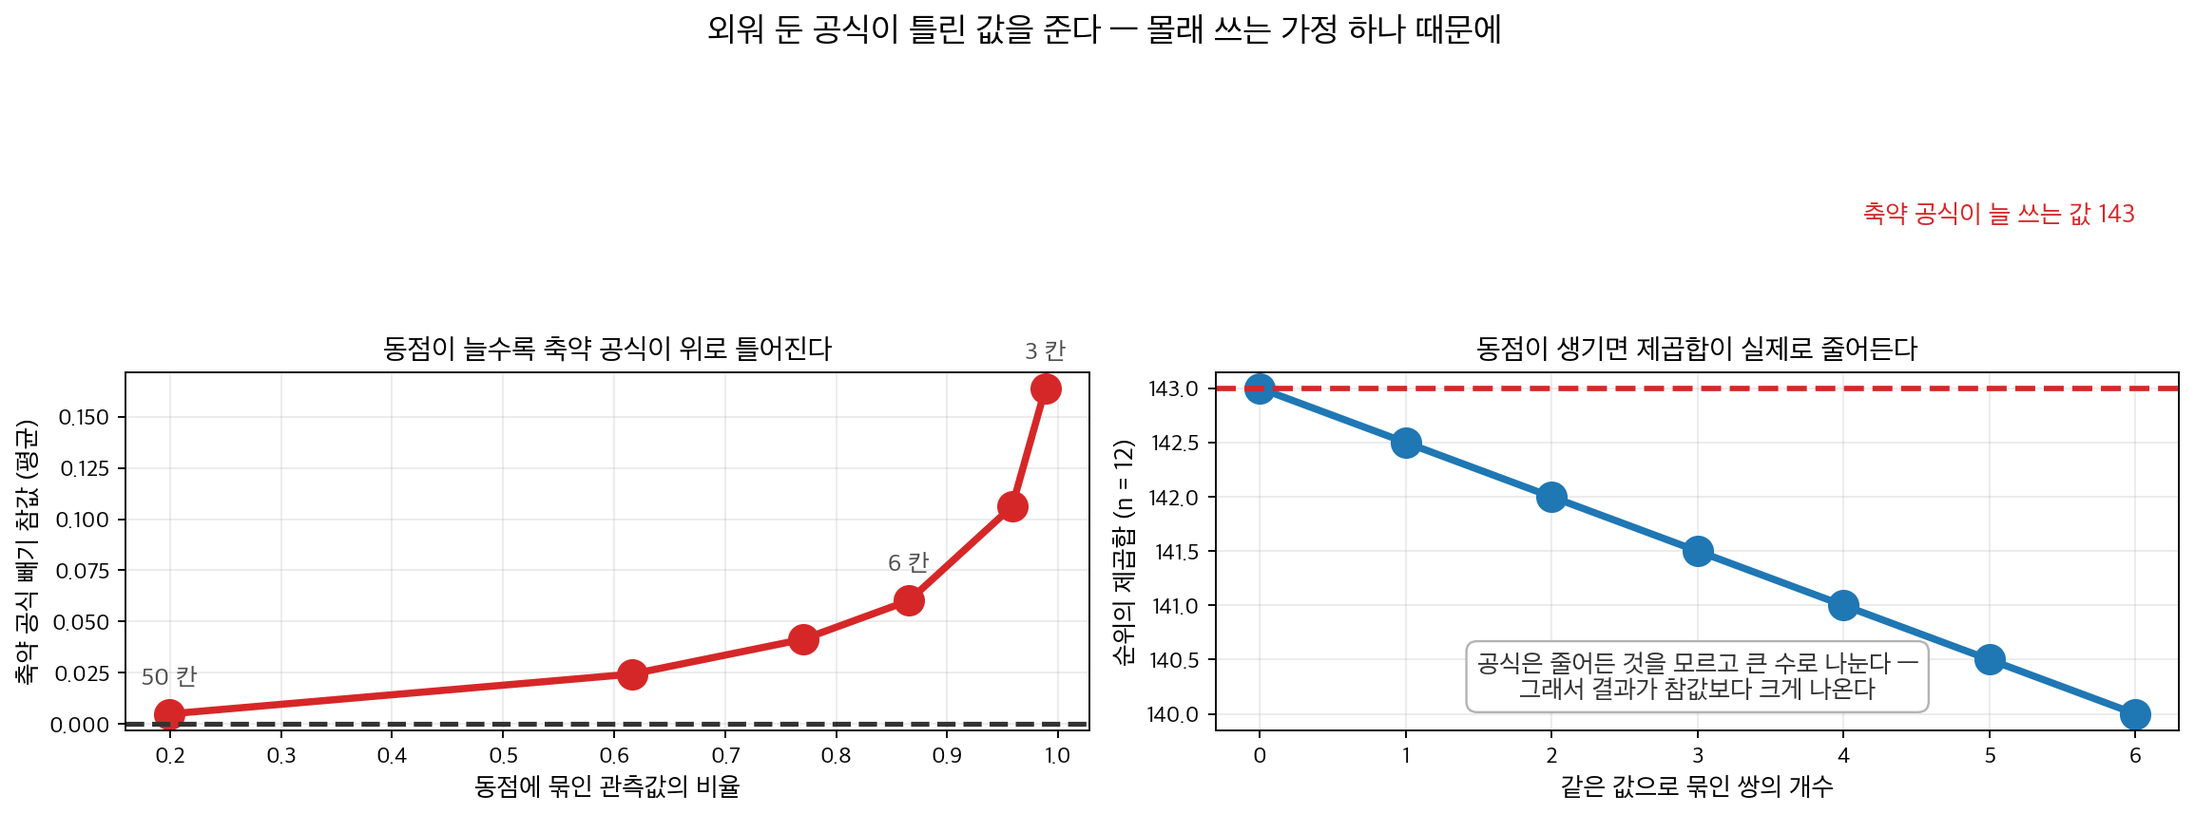
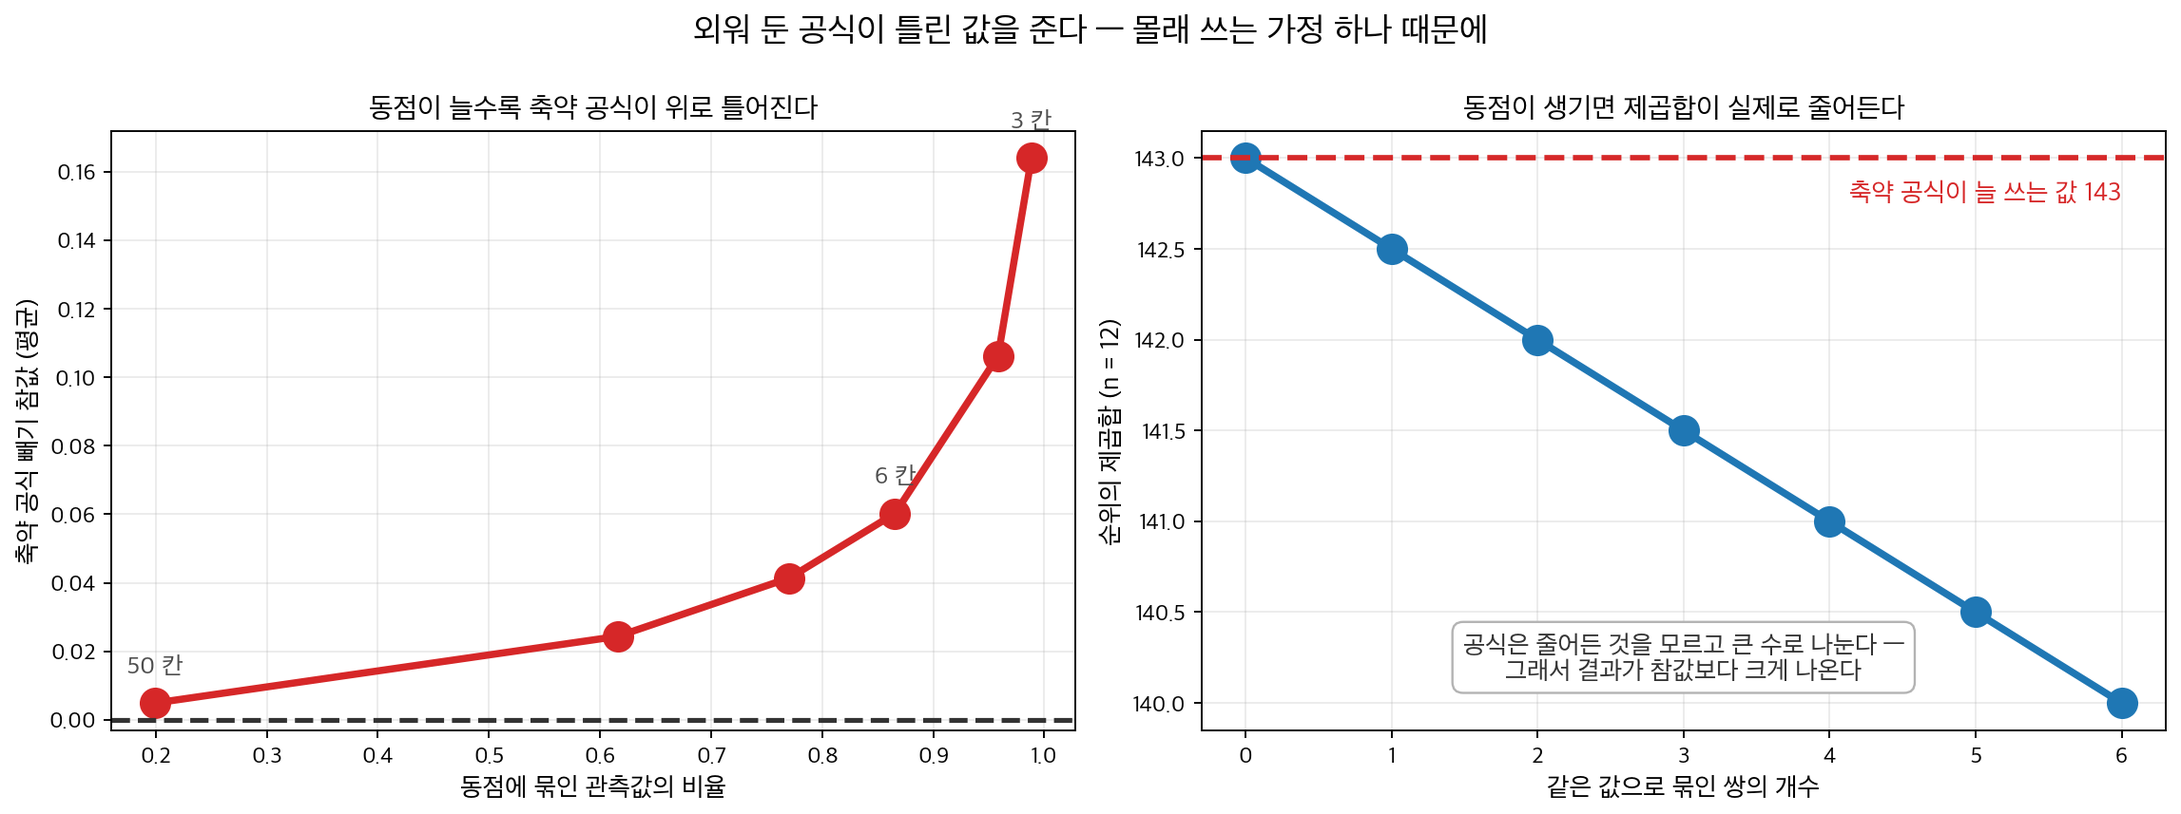
fix(ch16): 보고만 해 두었던 항목을 마무리한다
앞 편집 패스가 고치지 않고 남긴 항목을 하나씩 판정해 끝냈다. 이미 닫힌 것과 보고가
틀린 것은 건드리지 않았고, 펜스를 고친 쪽은 실제로 돌린 출력을 붙여 verify_outputs 로
맞췄다. 그림을 다시 그린 것은 스크립트와 함께 담았다. 바깥 사실은 확인한 출처로만 고쳤다.

diff --git a/scripts/make_ch16_leadbox_figures_c.py b/scripts/make_ch16_leadbox_figures_c.py
@@ -497,8 +497,8 @@ for m in tiecounts:
     shrunk.append(((r - r.mean()) ** 2).sum())
 ax2.plot(tiecounts, shrunk, "o-", color="tab:blue", lw=3.2, ms=13)
 ax2.axhline(base, color="tab:red", lw=2.4, ls="--")
-ax2.text(tiecounts[-1], base + 1.5,
-         f"축약 공식이 늘 쓰는 값 {base:.0f}", ha="right", va="bottom",
+ax2.text(tiecounts[-1], base - 0.12,
+         f"축약 공식이 늘 쓰는 값 {base:.0f}", ha="right", va="top",
          fontsize=11.5, color="tab:red", fontweight="bold")
 ax2.set_xlabel("같은 값으로 묶인 쌍의 개수", fontsize=11.5)
 ax2.set_ylabel(f"순위의 제곱합 (n = {N20})", fontsize=11.5)

diff --git a/docs/ch16/one_sample_nonparametric/wilcoxon_signed_rank.md b/docs/ch16/one_sample_nonparametric/wilcoxon_signed_rank.md
@@ -149,7 +149,7 @@ $0$ 을 버리고 남은 개수(아래에서는 $n'$ 이라 적는다)가 작으
 
 관측값 $W^+ = 18$ 이상이 나오는 배정은 $64$가지 중 $5$가지여서 단측 $p$ 값이 $5/64 = 0.0781$이다. SciPy의 `stats.wilcoxon(D, alternative="greater")`가 돌려주는 값과 정확히 같다. 표도 $t$ 분포표도 필요 없고, 근사 오차도 없다.
 
-이 열거가 가능한 범위가 곧 정확검정을 쓸 수 있는 범위이다. $n' = 6$이면 $64$가지, $n' = 20$이면 약 $100$만 가지로 여전히 즉시 계산되지만 $n' = 50$이면 $10^{15}$가지가 되어 동적계획법이나 정규근사로 넘어가야 한다. SciPy가 $n' \le 25$에서 기본적으로 `method="exact"`를 쓰는 것이 이 경계선이다.
+이 열거가 가능한 범위가 곧 정확검정을 쓸 수 있는 범위이다. $n' = 6$이면 $64$가지, $n' = 20$이면 약 $100$만 가지로 여전히 즉시 계산되지만 $n' = 50$이면 $10^{15}$가지가 되어 동적계획법이나 정규근사로 넘어가야 한다. SciPy 는 열거 대신 점화식으로 분포를 세므로 경계가 조금 더 넓다 — 이 책이 쓰는 판본(1.13)은 $n' \le 50$ 이고 0 이 없으면 기본으로 `method="exact"`를 쓴다(옛 판본에서는 경계가 더 작았다).
 
 ### 정규근사 — n 이 20 이상이면 쓴다
 
@@ -183,7 +183,7 @@ $$
 
 $p \le \alpha$ 이면 $H_0$ 을 기각한다.
 
-**그 확률을 어떻게 구하느냐가 버리고 남은 개수 $n'$ 에 달렸다.** $n'$ 이 작으면 $2^{n'}$ 가지 부호 배정을 그대로 세어 **정확** $p$ 값을 얻는다 — 앞 절의 $D = (4,\,-1,\,7,\,3,\,-2,\,5)$ 에서 $W^+ = 18$ 이상인 배정이 $64$ 가지 가운데 다섯이어서 단측 $p$ 가 $5/64 = 0.0781$ 이었다. $n'$ 이 커지면 열거가 버거워지므로 앞 절의 $Z$ 로 바꾼다. `scipy` 는 $n' \le 25$ 까지 정확검정을 기본으로 삼는다.
+**그 확률을 어떻게 구하느냐가 버리고 남은 개수 $n'$ 에 달렸다.** $n'$ 이 작으면 $2^{n'}$ 가지 부호 배정을 그대로 세어 **정확** $p$ 값을 얻는다 — 앞 절의 $D = (4,\,-1,\,7,\,3,\,-2,\,5)$ 에서 $W^+ = 18$ 이상인 배정이 $64$ 가지 가운데 다섯이어서 단측 $p$ 가 $5/64 = 0.0781$ 이었다. $n'$ 이 커지면 열거가 버거워지므로 앞 절의 $Z$ 로 바꾼다. `scipy` 는 0 이 없으면 $n' \le 50$ 까지 정확검정을 기본으로 삼는다.
 
 ---
 
@@ -263,7 +263,7 @@ $p \le \alpha$ 이면 $H_0$ 을 기각한다.
         0.12627892855469777
         ```
 
-        이 보기에서는 세 값 모두 $\alpha = 0.05$에서 같은 결론을 주지만, 작은 표본에서는 근사가 $p$ 값을 정확값과 눈에 띄게 다르게 잡을 수 있다는 점을 기억해야 한다(이 보기에서는 작게 잡았다). $n \le 25$에서는 SciPy가 기본적으로 정확검정을 쓰며, 그 편이 옳다.
+        이 보기에서는 세 값 모두 $\alpha = 0.05$에서 같은 결론을 주지만, 작은 표본에서는 근사가 $p$ 값을 정확값과 눈에 띄게 다르게 잡을 수 있다는 점을 기억해야 한다(이 보기에서는 작게 잡았다). $n \le 50$이고 0 이 없으면 SciPy가 기본적으로 정확검정을 쓰며, 그 편이 옳다.
 
 ### 크기 정보가 결론을 뒤집는다
 
@@ -1011,7 +1011,7 @@ $\mathcal{N}(0.4,\, 1)$에서 $\alpha = 0.05$ 양측, 반복 20,000회로 (i) $n
 
     **정규자료.** 같은 $n = 40$에서 부호순위검정이 $0.6784$, $t$ 검정이 $0.6936$으로 $0.0152$ 뒤진다. 표본을 둘 더 모아 $n = 42$로 만들면 $0.6938$이 되어 $t$ 검정의 $0.6936$과 사실상 같아진다(차이 $0.0002$, 반복 20,000회의 표준오차는 $\sqrt{0.69 \times 0.31/20000} \approx 0.0033$이므로 구별할 수 없다). ARE $0.955$가 뜻하는 "표본 $4.7\%$"가 $n = 40$에서 이미 눈에 보이는 정확도로 맞는다. ARE는 $n \to \infty$, $\delta \to 0$의 극한값인데도 중간 크기 표본에서 잘 맞는다는 점이 이 수를 실용적으로 만든다.
 
-    **$t_3$ 자료.** 순서가 뒤집힌다. 같은 $n = 40$에서 부호순위검정이 $0.4943$, $t$ 검정이 $0.3704$로 **부호순위검정이 $0.124$ 앞선다.** $t$ 검정이 잃는 것을 표본 수로 환산하면 $4.7\%$가 아니라 $30\%$가 넘는다. 두꺼운 꼬리가 표본표준편차를 부풀려 $t$ 통계량의 분모를 키우는 반면, 순위는 이상치(outlier)의 **크기**가 아니라 **차례**만 보므로 영향을 받지 않는다.
+    **$t_3$ 자료.** 순서가 뒤집힌다. 같은 $n = 40$에서 부호순위검정이 $0.4943$, $t$ 검정이 $0.3704$로 **부호순위검정이 $0.124$ 앞선다.** $t$ 검정이 잃는 것을 표본 수로 환산하면 $4.7\%$와는 방향도 크기도 다르다 — $t_3$ 에서 부호순위검정의 ARE 는 $12\sigma^2\bigl(\int f^2\bigr)^2 = 1.90$ 이므로, 점근적으로는 $t$ 검정이 같은 검정력을 내는 데 표본이 $90\%$ 더 든다. 두꺼운 꼬리가 표본표준편차를 부풀려 $t$ 통계량의 분모를 키우는 반면, 순위는 이상치(outlier)의 **크기**가 아니라 **차례**만 보므로 영향을 받지 않는다.
 
     그래서 $0.955$는 "비모수 검정이 약간 약하다"가 아니라 **"$t$ 검정이 최적인 정규분포에서조차 약간만 약하다"**로 읽어야 한다. ARE는 분포마다 다른 값이고, $0.955$는 $t$ 검정에 유리한 경우에서 잰 값이다. 꼬리가 두꺼워지면 같은 비가 $1$을 넘고 한없이 커질 수도 있다. 포기하는 것은 정규분포에서 $4.7\%$의 표본이고 어떤 분포에서도 크게 늘지 않지만(ARE의 하한이 $108/125 = 0.864$이다), 얻는 것(두꺼운 꼬리에서의 검정력)은 상한이 없다.
 
@@ -1604,7 +1604,7 @@ $$
     p_c = stats.wilcoxon(dz, alternative="two-sided", method="approx",
                          correction=False, zero_method="wilcox").pvalue
     print(f"\n0 을 떼고 넣은 method='exact'   : {p_a:.6f}")
-    print(f"0 을 그대로 둔 method='exact'   : {p_b:.6f}   <- 말없이 정규근사로 갈아탄다")
+    print(f"0 을 그대로 둔 method='exact'   : {p_b:.6f}   <- 경고를 내고 정규근사로 갈아탄다")
     print(f"method='approx' (동점 보정 분산): {p_c:.6f}")
     ```
 
@@ -1618,7 +1618,7 @@ $$
     정확 양측  p = 2*10/4096 = 0.004883
 
     0 을 떼고 넣은 method='exact'   : 0.004883
-    0 을 그대로 둔 method='exact'   : 0.007579   <- 말없이 정규근사로 갈아탄다
+    0 을 그대로 둔 method='exact'   : 0.007579   <- 경고를 내고 정규근사로 갈아탄다
     method='approx' (동점 보정 분산): 0.007579
     ```
 

diff --git a/docs/ch16/correlation/spearman.md b/docs/ch16/correlation/spearman.md
@@ -14,7 +14,7 @@
 
 <figure markdown>
   ![두 칸짜리 그림. 왼쪽은 동점에 묶인 비율이 늘수록 축약 공식이 참값보다 위로 틀어지는 곡선으로 0.005 에서 0.164 까지 간다. 오른쪽은 같은 값으로 묶인 쌍이 늘수록 순위의 제곱합이 143 에서 줄어드는 것을 보이고, 축약 공식이 늘 쓰는 값을 가로선으로 표시한다](./img/the_shortcut_assumes_fortytwo.png){ width="900" }
-  <figcaption markdown>**오른쪽.** 축약 공식이 몰래 쓰는 것이 이것이다 — 순위의 제곱합이 늘 같은 값이라는 사실. 동점이 생기면 중간순위가 서로 가까워져 제곱합이 **실제로 줄어드는데** 공식은 여전히 원래 값으로 나눈다. **왼쪽.** 그래서 결과가 참값보다 **크게** 나오고, 그 오차가 동점과 함께 커진다. 동점에 묶인 비율이 $0.2$ 일 때 $+0.005$ 이던 것이 $0.99$ 에서 $+0.164$ 가 된다. 들머리의 $0.393$ 대 $0.374$ 가 그 곡선의 왼쪽 끝 언저리다. 그런 자료에서는 중간순위에 피어슨 공식을 그대로 적용하는 것이 맞다. $n = 12$, 반복 자리마다 $3{,}000$ 회.</figcaption>
+  <figcaption markdown>**오른쪽.** 축약 공식이 몰래 쓰는 것이 이것이다 — 순위의 제곱합이 늘 같은 값이라는 사실. 동점이 생기면 중간순위가 서로 가까워져 제곱합이 **실제로 줄어드는데** 공식은 여전히 원래 값으로 나눈다. **왼쪽.** 그래서 결과가 참값보다 **크게** 나오고, 그 오차가 동점과 함께 커진다. 동점에 묶인 비율이 $0.2$ 일 때 $+0.005$ 이던 것이 $0.99$ 에서 $+0.164$ 가 된다. 들머리의 자료는 관측값 $16$ 개 가운데 $10$ 개(비율 $0.625$)가 동점에 묶여 있고 차이가 $0.393 - 0.374 = +0.019$ 이므로, $n$ 은 $8$ 로 다르지만 그 곡선의 둘째 점($0.62$ 에서 $+0.024$) 언저리에 놓인다. 그런 자료에서는 중간순위에 피어슨 공식을 그대로 적용하는 것이 맞다. $n = 12$, 반복 자리마다 $3{,}000$ 회.</figcaption>
 </figure>
 </div>
 
@@ -1124,7 +1124,7 @@ $$
 
     **정확검정을 쓴다.** 두 검정 모두 명목 $0.05$ 를 정확히 맞추지 못하지만, 틀리는 방향이 다르다. 정확검정은 수준을 **넘지 않는다**는 보장을 지키면서 검정력을 조금 잃고, $t$ 검정은 보장을 깬다. 가설검정의 설계가 "제1종 오류율을 $\alpha$ 이하로 묶고 그 안에서 검정력을 최대화한다" 는 것이므로 수준을 넘기는 쪽은 선택지가 아니다. $n \le 9$ 에서 $n!$ 열거는 몇 초면 끝난다.
 
-    **"정확히 $0.05$" 가 불가능하다는 사실.** $r_s$ 의 귀무분포가 유한한 격자 위의 이산분포이므로 꼬리확률도 $1/n!$ 의 배수뿐이고, $0.05$ 가 그 안에 들어 있을 이유가 없다. 이것은 근사의 실패가 아니라 **이산성의 본질**이다(9 장의 이항검정에서도 같은 일이 일어난다). 그래서 소표본 비모수 검정에서는 "$\alpha = 0.05$ 검정" 이라는 말보다 **달성된 수준을 함께 적는 것**이 정직하다 — 예컨대 "$n = 8$, 정확검정, 달성 수준 $0.0458$".
+    **"정확히 $0.05$" 가 불가능하다는 사실.** $r_s$ 의 귀무분포가 유한한 격자 위의 이산분포이므로 꼬리확률도 $1/n!$ 의 배수뿐이고, $0.05$ 가 그 안에 들어 있을 이유가 없다. 이것은 근사의 실패가 아니라 **이산성의 본질**이다(9.1절 [검정통계량과 p 값](../../ch09/foundations/pvalues.md) 연습문제 16 의 정확 이항검정에서도 같은 일이 일어난다). 그래서 소표본 비모수 검정에서는 "$\alpha = 0.05$ 검정" 이라는 말보다 **달성된 수준을 함께 적는 것**이 정직하다 — 예컨대 "$n = 8$, 정확검정, 달성 수준 $0.0458$".
 
 <div class="drillbox" markdown>
 

diff --git a/docs/ch16/multi_group_nonparametric/friedman.md b/docs/ch16/multi_group_nonparametric/friedman.md
@@ -13,8 +13,8 @@
 그렇다면 블록 안에서만 순위를 매겨 지우는 것은 정확히 무엇이고, 그 대가로 버리는 것은 무엇인가. 이 쪽이 가정 넷을 적고 절차를 세 단계로 끊은 뒤, 귀무분포가 블록 안 순위의 순열에서 그대로 나오는 것을 보이고 「어느 약이 다른가」를 묻는 사후비교(post hoc comparison)로 넘긴다.
 
 <figure markdown>
-  ![두 칸짜리 그림. 왼쪽은 블록 5 개 처리 4 가지에서 통계량이 가질 수 있는 45 개 값을 막대로 찍고 카이제곱 곡선을 겹친 것으로, 최댓값이 15 에서 막혀 있고 관측값 13.6 이 그 가까이에 있다. 오른쪽은 카이제곱 표가 읽어 주는 0.003570 과 순열을 다 세어 얻은 0.000139 를 막대로 맞댄 것이다](./img/only_forty_five_values.png){ width="900" }
-  <figcaption markdown>**왼쪽.** 블록이 다섯이고 처리가 넷이면 블록 안 순위의 배치가 $(4!)^5$ 가지뿐이고, 통계량이 가질 수 있는 값은 **$45$ 개**다. 게다가 최댓값이 $15$ 에서 막혀 있다 — 모든 블록이 완전히 같은 순위를 줄 때의 값이다. 관측값 $13.6$ 은 가질 수 있는 값 가운데 셋째로 큰 자리다. 매끄러운 카이제곱 곡선은 그 성긴 격자를 전혀 모른 채 꼬리를 그린다. **오른쪽.** 그래서 표가 읽어 주는 $0.003570$ 이 정확값 $0.000139$ 의 **$26$ 배**가 된다 — 기각을 덜 하는 쪽이다. 블록이 늘면 격자가 촘촘해져 이 간격도 줄어든다.</figcaption>
+  ![두 칸짜리 그림. 왼쪽은 블록 5 개 처리 4 가지에서 통계량이 가질 수 있는 45 개 값을 막대로 찍고 카이제곱 곡선을 겹친 것으로, 최댓값이 15 에서 막혀 있고 관측값 13.56 이 그 가까이에 있다. 오른쪽은 카이제곱 표가 읽어 주는 0.003570 과 순열을 다 세어 얻은 0.000139 를 막대로 맞댄 것이다](./img/only_forty_five_values.png){ width="900" }
+  <figcaption markdown>**왼쪽.** 블록이 다섯이고 처리가 넷이면 블록 안 순위의 배치가 $(4!)^5$ 가지뿐이고, 통계량이 가질 수 있는 값은 **$45$ 개**다. 게다가 최댓값이 $15$ 에서 막혀 있다 — 모든 블록이 완전히 같은 순위를 줄 때의 값이다. 관측값 $13.56$ 은 가질 수 있는 값 가운데 셋째로 큰 자리다. 매끄러운 카이제곱 곡선은 그 성긴 격자를 전혀 모른 채 꼬리를 그린다. **오른쪽.** 그래서 표가 읽어 주는 $0.003570$ 이 정확값 $0.000139$ 의 **$26$ 배**가 된다 — 기각을 덜 하는 쪽이다. 블록이 늘면 격자가 촘촘해져 이 간격도 줄어든다.</figcaption>
 </figure>
 </div>
 

diff --git a/docs/ch16/paired_sample_nonparametric/paired_wilcoxon.md b/docs/ch16/paired_sample_nonparametric/paired_wilcoxon.md
@@ -747,7 +747,7 @@ $n = 12$에서 윌콕슨 부호순위검정의 정확 귀무분포를 직접 열
 
     Ds = np.sort(D)
     m = max(c for c in range(n) if 2 * stats.binom.cdf(c, n, 0.5) <= 0.05)
-    print(m, Ds[m + 1], Ds[n - m - 1])                # 2 5 11
+    print(m, Ds[m], Ds[n - m - 1])                    # 2 3 11  (D_(3), D_(10))
     print(stats.ttest_1samp(D, 0).confidence_interval())
     ```
 
@@ -755,19 +755,19 @@ $n = 12$에서 윌콕슨 부호순위검정의 정확 귀무분포를 직접 열
 
     ```
     13 78 1.5 10.0
-    2 5 11
+    2 3 11
     ConfidenceInterval(low=2.1717302734032677, high=9.994936393263398)
     ```
 
     | 방법 | 95% 신뢰구간 | 폭 | 실제 포함확률 |
     |:---|:---:|---:|---:|
-    | 대응 부호검정 | $(5, \; 11)$ | $6.0$ | $0.961$ |
+    | 대응 부호검정 | $(3, \; 11)$ | $8.0$ | $0.961$ |
     | 대응 윌콕슨 | $(1.5, \; 10.0)$ | $8.5$ | $0.958$ |
     | 대응 $t$ | $(2.17, \; 9.99)$ | $7.8$ | $0.950$ |
 
     세 구간 모두 0을 포함하지 않으므로 세 검정이 모두 기각한 것과 일관된다.
 
-    부호검정 구간이 가장 **좁다**는 것이 뜻밖으로 보인다. 검정력이 가장 낮은 검정이 왜 가장 좁은 구간을 주는가? 이는 두 구간이 다른 방식으로 만들어지기 때문이다. 부호검정 구간은 **순서통계량** $D_{(3)} = 5$와 $D_{(10)} = 11$ 사이이고, 이 자료의 차이가 대부분 $5$ 이상에 몰려 있어 우연히 좁게 나왔다. 윌콕슨 구간은 월시 평균에 기반하므로 $-8$과 $-2$가 만드는 낮은 쌍평균들까지 반영되어 아래쪽으로 늘어난다.
+    가장 좁은 것은 $t$ 구간($7.8$)이지만, 부호검정 구간($8.0$)이 윌콕슨 구간($8.5$)보다 **좁다**는 것이 뜻밖으로 보인다. 검정력이 더 낮은 검정이 왜 더 좁은 구간을 주는가? 이는 두 구간이 다른 방식으로 만들어지기 때문이다. 부호검정 구간은 **순서통계량** $D_{(3)} = 3$과 $D_{(10)} = 11$ 사이이고, 아래쪽 두 값 $-8$, $-2$ 는 끝점을 정하는 데 순서로만 들어간다. 윌콕슨 구간은 월시 평균에 기반하므로 $-8$과 $-2$가 만드는 낮은 쌍평균들까지 반영되어 아래쪽으로 늘어난다.
 
     구간의 폭은 검정력의 좋은 지표가 아니다. 표본이 하나뿐일 때 어느 구간이 좁은지는 그 표본의 우연에 크게 좌우된다. 검정력을 비교하려면 여러 표본에 걸친 평균 폭을 보아야 한다.
 

diff --git a/docs/ch16/multi_group_nonparametric/kruskal_wallis.md b/docs/ch16/multi_group_nonparametric/kruskal_wallis.md
@@ -353,7 +353,7 @@ $$
 
 크러스컬–월리스 결과가 유의하다는 것은 적어도 한 집단이 다르다는 뜻이지, 어느 쌍이 다른지는 알려 주지 않는다. 사후분석의 선택지는 다음과 같다.
 
-- **[던 검정](dunn.md)** --- 평균순위 차이에 기반한 쌍별 비교로, 다중검정에 대한 $p$ 값 보정(본페로니, 홀름, Benjamini-Hochberg)을 적용한다.
+- **[던 검정](dunn.md)** --- 평균순위 차이에 기반한 쌍별 비교로, 다중검정에 대한 $p$ 값 보정(본페로니, 홀름, 벤자미니–호크버그)을 적용한다.
 - **쌍별 만–휘트니 검정** --- $\binom{k}{2}$개의 이표본 검정을 본페로니 보정과 함께 수행한다.
 
 !!! warning "전체검정을 건너뛰지 말 것"
@@ -858,7 +858,7 @@ $k = 3$이고 $n_i = 4$인 이 보기에서 $\chi^2$ 근사가 얼마나 믿을 
 
     세 집단의 **중앙값이 모두 정확히 0**인데도 기각률이 명목수준의 두 배($n=10$)에서 12배($n=100$)까지 올라가고, $n$이 커질수록 **더 나빠진다**.
 
-    이유는 크러스컬–월리스가 검정하는 것이 "중앙값이 같다"가 아니라 "분포가 같다"이기 때문이다. 평균순위는 중앙값이 아니라 $P(X_i > X_j)$ 형태의 양에 민감하다. 오른쪽 꼬리가 긴 분포는 극단적으로 큰 값을 자주 내므로 합친 표본에서 높은 순위를 더 많이 차지한다.
+    이유는 크러스컬–월리스가 검정하는 것이 "중앙값이 같다"가 아니라 "분포가 같다"이기 때문이다. 평균순위는 중앙값이 아니라 $P(X_i > X_j)$ 형태의 양에 민감하다. 순위는 값의 크기를 보지 않으므로 「극단적으로 큰 값을 낸다」는 것 자체가 까닭은 아니다. 중앙값이 같아도 아래 절반이 0 바로 밑($-\ln 2$ 와 $0$ 사이)에 몰려 있는 $g_1$ 은 다른 집단과 짝지을 때 이기는 쪽이 더 많다 — $P(g_1 > g_2) = 0.557$, $P(g_1 > g_3) = 0.597$ 이다. 그래서 합친 표본에서 높은 순위를 더 많이 차지한다.
 
     구체적으로, 세 분포의 기대 평균순위를 계산해 보면 $g_1 > g_2 > g_3$ 순으로 갈리며, 이 차이가 표본이 커질수록 잡음에 비해 뚜렷해진다.
 

diff --git a/docs/ch16/two_sample_nonparametric/mann_whitney.md b/docs/ch16/two_sample_nonparametric/mann_whitney.md
@@ -1329,7 +1329,7 @@ $$
 
     **(d)** 분산이 다르고 표본크기가 다르면 만–휘트니 검정은 $\theta = 1/2$가 참인데도 명목 $5\%$가 실제로는 $0.8\%$(보수적)에서 $16\%$(과감)까지 흔들린다. **분산이 큰 쪽의 표본이 작을 때 과감해진다.** 까닭은 본문의 $\sigma_U^2 = n_1 n_2(N+1)/12$가 $\theta = 1/2$만으로 유도된 것이 아니라 $N$개 관측값 전체의 **교환가능성**(두 분포가 완전히 동일함)에서 유도된 것이기 때문이다. 순위를 쓴다고 해서 가정이 사라지는 것은 아니다.
 
-    이것은 베렌스–피셔 문제(Behrens–Fisher problem)의 비모수 판본이다. 15장에서 보았듯 분산이 다르면 $t$ 검정도 웰치 수정이 필요했는데, 순위검정에도 똑같은 병이 있고 처방도 비슷하다. $\operatorname{Var}(U_1)$을 자료로 추정해 표준화하는 Brunner-Munzel 검정이나, 두 집단에서 따로 재표집하는 부트스트랩(17장)을 쓴다. 등분산을 의심할 이유가 있다면 먼저 그것을 보고(15장), 표본크기를 되도록 맞추는 것이 가장 값싼 방어다.
+    이것은 베렌스–피셔 문제(Behrens–Fisher problem)의 비모수 판본이다. 9.3절 [이표본 t-검정 (스튜던트와 웰치)](../../ch09/two_sample_tests/t_test_two_means.md)에서 보았듯 분산이 다르면 $t$ 검정도 웰치 수정이 필요했는데, 순위검정에도 똑같은 병이 있고 처방도 비슷하다. $\operatorname{Var}(U_1)$을 자료로 추정해 표준화하는 Brunner-Munzel 검정이나, 두 집단에서 따로 재표집하는 부트스트랩(17장)을 쓴다. 등분산을 의심할 이유가 있다면 먼저 그것을 보고(15장), 표본크기를 되도록 맞추는 것이 가장 값싼 방어다.
 
 <div class="drillbox" markdown>
 
